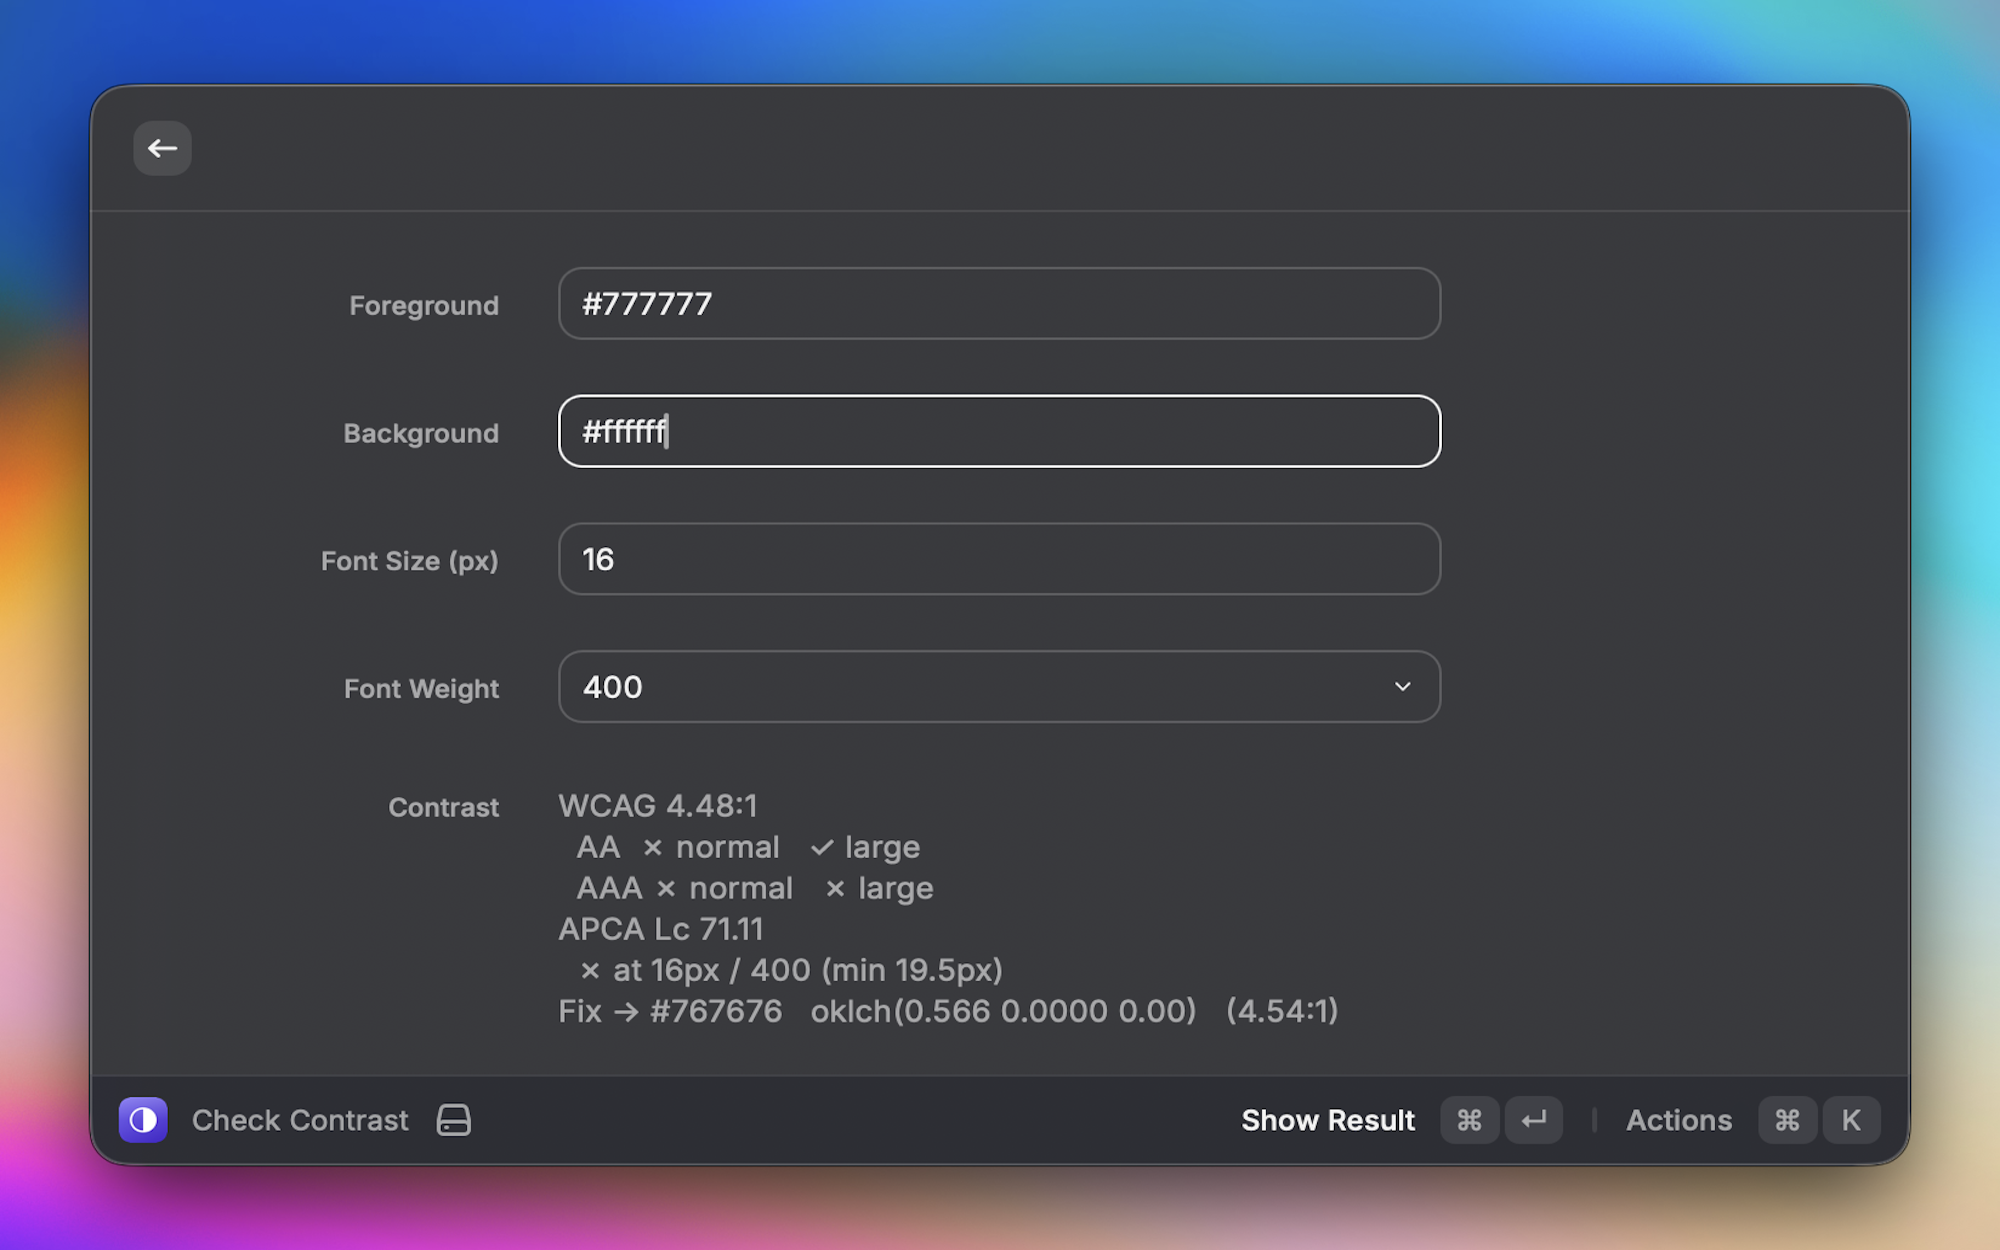
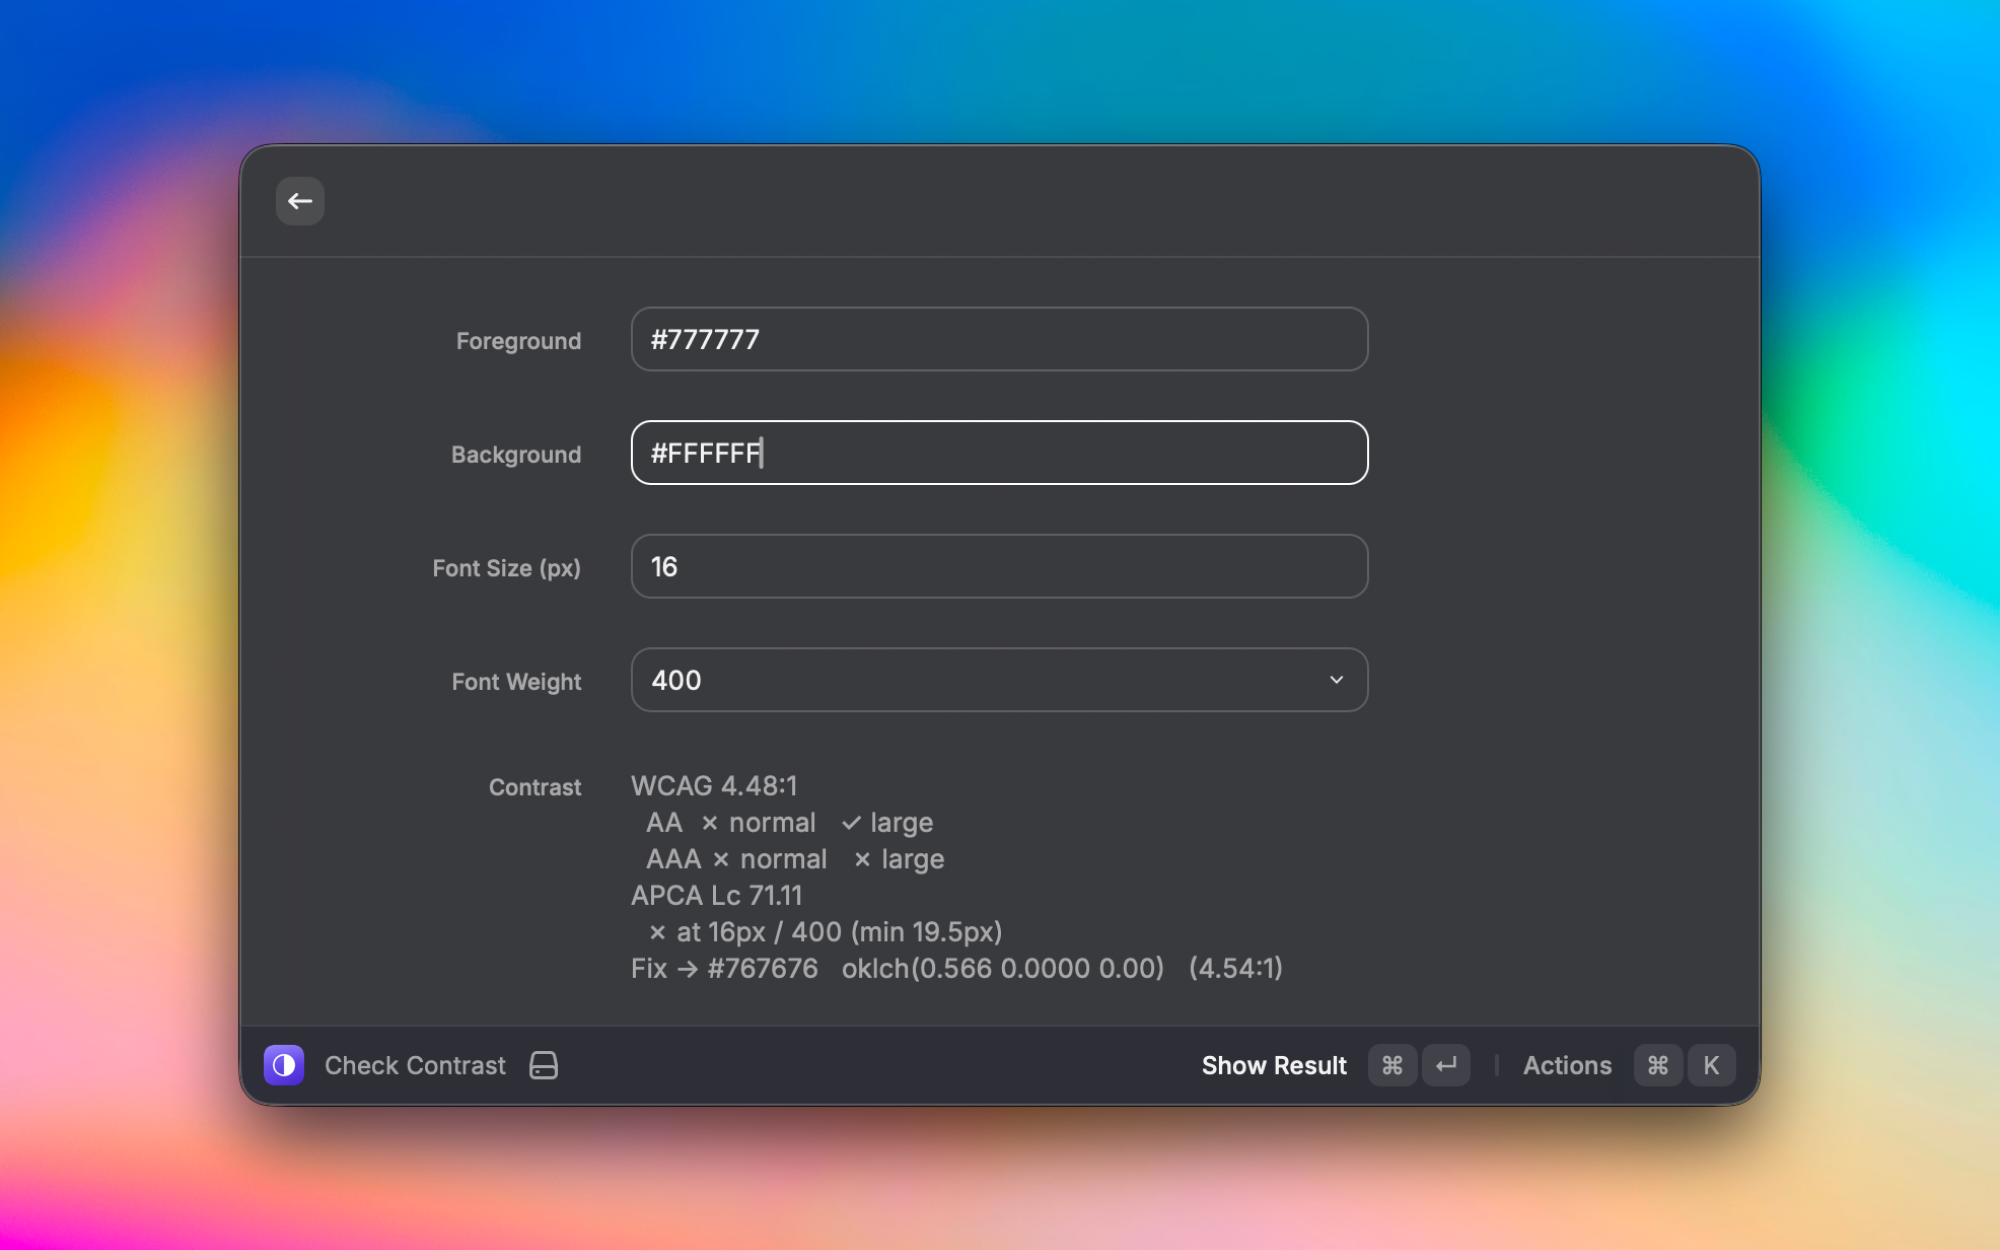
Address review feedback and refine screenshots

diff --git a/src/lib/contrast.ts b/src/lib/contrast.ts
@@ -3,7 +3,7 @@
 // in one structured object. This module is pure (no Raycast/React imports) so it
 // can be unit-tested with Node's test runner and reused anywhere.
 
-import { isValidColor } from "./color";
+import { isValidColor, compositeOver } from "./color";
 import { evaluateWcag } from "./wcag";
 import { evaluateApca } from "./apca";
 import { nearestPassing } from "./fix";
@@ -43,6 +43,7 @@ export interface ContrastResult {
   valid: boolean; // false if either color failed to parse
   error?: string;
   input: Required<ContrastInput>;
+  resolved: { foreground: string; background: string }; // opaque hex actually scored (alpha composited)
   wcag: WcagResult;
   apca: ApcaResult;
   fixForWcagAA: FixResult; // nearest passing foreground for WCAG AA normal (target 4.5)
@@ -59,6 +60,7 @@ function zeroedResult(input: Required<ContrastInput>, error: string): ContrastRe
     valid: false,
     error,
     input,
+    resolved: { foreground: "", background: "" },
     wcag: { ratio: 0, aaNormal: false, aaLarge: false, aaaNormal: false, aaaLarge: false },
     apca: { lc: 0, absLc: 0, minFontPx: null, passesAtSize: false },
     fixForWcagAA: { hex: "", oklch: "", ratio: 0, alreadyPasses: false },
@@ -67,10 +69,13 @@ function zeroedResult(input: Required<ContrastInput>, error: string): ContrastRe
 
 /** Validate the input colors, then compute WCAG, APCA, and the nearest passing fix. */
 export function analyze(input: ContrastInput): ContrastResult {
+  const fs = input.fontSizePx;
   const resolved: Required<ContrastInput> = {
     foreground: input.foreground,
     background: input.background,
-    fontSizePx: input.fontSizePx ?? DEFAULT_FONT_SIZE_PX,
+    // Accept a font size only if it is a finite number > 0; otherwise use the default.
+    // (Number() / the form can yield 0, -5, or Infinity, which are not valid sizes.)
+    fontSizePx: typeof fs === "number" && Number.isFinite(fs) && fs > 0 ? fs : DEFAULT_FONT_SIZE_PX,
     fontWeight: input.fontWeight ?? DEFAULT_FONT_WEIGHT,
   };
 
@@ -81,11 +86,17 @@ export function analyze(input: ContrastInput): ContrastResult {
     return zeroedResult(resolved, `Could not parse the ${which} color. Use hex (3/4/6/8), rgb(), hsl(), or oklch().`);
   }
 
+  // Flatten any alpha before scoring: bg over white, then fg over the resolved bg.
+  // WCAG/APCA assume opaque colors, so translucent inputs must be composited first.
+  const opaqueBg = compositeOver(resolved.background, "#ffffff");
+  const opaqueFg = compositeOver(resolved.foreground, opaqueBg);
+
   return {
     valid: true,
     input: resolved,
-    wcag: evaluateWcag(resolved.foreground, resolved.background),
-    apca: evaluateApca(resolved.foreground, resolved.background, resolved.fontSizePx, resolved.fontWeight),
-    fixForWcagAA: nearestPassing(resolved.foreground, resolved.background, WCAG_AA_TARGET),
+    resolved: { foreground: opaqueFg, background: opaqueBg },
+    wcag: evaluateWcag(opaqueFg, opaqueBg),
+    apca: evaluateApca(opaqueFg, opaqueBg, resolved.fontSizePx, resolved.fontWeight),
+    fixForWcagAA: nearestPassing(opaqueFg, opaqueBg, WCAG_AA_TARGET),
   };
 }

diff --git a/src/check-contrast.tsx b/src/check-contrast.tsx
@@ -7,22 +7,20 @@ import {
   type ApcaWeight,
   type ContrastResult,
 } from "./lib/contrast";
-import { parseColor, toHex } from "./lib/color";
+import { parseColor } from "./lib/color";
 
 const WEIGHTS: ApcaWeight[] = [100, 200, 300, 400, 500, 600, 700, 800, 900];
 
-/** Parse the font-size field; fall back to the default when blank or NaN. */
+/** Parse the font-size field; fall back to the default unless it is finite and > 0. */
 function parseFontSize(raw: string): number {
-  const trimmed = raw.trim();
-  if (trimmed === "") return DEFAULT_FONT_SIZE_PX;
-  const n = Number(trimmed);
-  return Number.isNaN(n) ? DEFAULT_FONT_SIZE_PX : n;
+  const n = Number(raw.trim());
+  return Number.isFinite(n) && n > 0 ? n : DEFAULT_FONT_SIZE_PX;
 }
 
-/** Convert any parseable color string to a hex string for the SVG/icons. */
-function toHexOr(input: string, fallback: string): string {
+/** Whether a color string parses and carries partial transparency (alpha < 1). */
+function hadAlpha(input: string): boolean {
   const parsed = parseColor(input);
-  return parsed ? toHex(parsed) : fallback;
+  return parsed !== undefined && (parsed.alpha ?? 1) < 1;
 }
 
 const mark = (ok: boolean): string => (ok ? "✓" : "✗");
@@ -130,8 +128,10 @@ function ResultView({ result }: { result: ContrastResult }) {
   // exists at the AA target).
   const hasRealFix = !fixForWcagAA.alreadyPasses;
 
-  const fgHex = toHexOr(input.foreground, "#000000");
-  const bgHex = toHexOr(input.background, "#ffffff");
+  // Use the opaque colors actually scored so the swatch matches the numbers (a
+  // translucent input previews as the composited color, not as opaque black).
+  const fgHex = result.resolved.foreground;
+  const bgHex = result.resolved.background;
 
   return (
     <Detail
@@ -209,6 +209,10 @@ function ResultView({ result }: { result: ContrastResult }) {
 function buildMarkdown(result: ContrastResult, fgHex: string, bgHex: string): string {
   const { input, fixForWcagAA } = result;
   const parts: string[] = ["# Contrast Preview"];
+
+  if (hadAlpha(input.foreground) || hadAlpha(input.background)) {
+    parts.push("_Translucent input composited over its background before scoring._");
+  }
 
   parts.push(`**Original** — \`${fgHex}\` on \`${bgHex}\``);
   parts.push(`![original](${swatch(bgHex, fgHex, "Original", input.fontSizePx, input.fontWeight)})`);

diff --git a/src/lib/__tests__/contrast.test.ts b/src/lib/__tests__/contrast.test.ts
@@ -49,6 +49,14 @@ test("WCAG levels: #000 on #fff passes everything; #ffa500 on #fff fails all", (
   );
 });
 
+test("WCAG levels compare the RAW ratio: #6e7978 on #fff rounds to 4.50 but fails AA", () => {
+  // Raw ratio is 4.4976; it rounds to 4.50 for display but must NOT count as AA-passing.
+  const { wcag } = analyze({ foreground: "#6e7978", background: "#ffffff" });
+  assert.equal(wcag.ratio, 4.5); // display value rounds up
+  assert.equal(wcag.aaNormal, false); // raw 4.4976 < 4.5
+  assert.equal(wcag.aaLarge, true); // raw >= 3
+});
+
 // --- APCA Lc (signed) --------------------------------------------------------
 
 const APCA_FIXTURES: Array<[string, string, number]> = [
@@ -157,4 +165,31 @@ test("invalid color: valid=false, helpful error, zeroed sub-results", () => {
   assert.equal(result.wcag.ratio, 0);
   assert.equal(result.apca.lc, 0);
   assert.equal(result.fixForWcagAA.hex, "");
+});
+
+// --- Translucent compositing -------------------------------------------------
+
+test("translucent fg is composited over the bg before scoring: rgba(0,0,0,0.5) on #fff", () => {
+  const result = analyze({ foreground: "rgba(0,0,0,0.5)", background: "#ffffff" });
+  assert.equal(result.valid, true);
+  assert.equal(result.resolved.foreground, "#808080"); // 50% black over white
+  // ~3.98, NOT ~21 (which is what scoring it as opaque black would give).
+  assert.ok(result.wcag.ratio > 3.9 && result.wcag.ratio < 4.05, `expected ~3.98, got ${result.wcag.ratio}`);
+  assert.equal(result.wcag.aaNormal, false);
+  assert.equal(result.wcag.aaLarge, true);
+});
+
+test("translucent hex (#00000080) is composited, not treated as opaque black", () => {
+  const { wcag } = analyze({ foreground: "#00000080", background: "#ffffff" });
+  // 8-digit `80` alpha is 0.502, so it lands one step off #808080; just prove it composited.
+  assert.ok(wcag.ratio < 5, `expected a composited ratio < 5, got ${wcag.ratio}`);
+});
+
+// --- Invalid font sizes ------------------------------------------------------
+
+test("invalid font sizes (<=0, non-finite) fall back to the default 16", () => {
+  for (const bad of [-5, 0, Infinity]) {
+    const { input } = analyze({ foreground: "#000000", background: "#ffffff", fontSizePx: bad });
+    assert.equal(input.fontSizePx, 16, `fontSizePx ${bad} should fall back to 16`);
+  }
 });

diff --git a/src/lib/color.ts b/src/lib/color.ts
@@ -2,7 +2,7 @@
 // parsing, OKLCH conversion, sRGB gamut mapping, hex/oklch formatting, and luminance.
 // Everything here is framework-free and unit-testable.
 
-import { parse, wcagLuminance, converter, formatHex, clampChroma, type CuloriColor } from "culori";
+import { parse, wcagLuminance, converter, formatHex, clampChroma, blend, type CuloriColor } from "culori";
 
 /** An OKLCH color with the channels we rely on guaranteed present after conversion. */
 export interface OklchColor extends CuloriColor {
@@ -50,6 +50,19 @@ export function gamutMapOklch(l: number, c: number, h: number): OklchColor {
 /** Format a color as a `#rrggbb` hex string. Inputs here are always representable. */
 export function toHex(color: CuloriColor): string {
   return formatHex(color) ?? "#000000";
+}
+
+/**
+ * Composite a possibly-translucent color over an opaque backdrop and return an
+ * opaque hex. WCAG/APCA assume opaque colors, so alpha inputs (e.g. `rgba(...)`,
+ * `#rrggbbaa`) must be flattened before scoring or they score like opaque colors.
+ */
+export function compositeOver(color: string, backdropHex: string): string {
+  const parsed = parse(color);
+  if (!parsed) return backdropHex;
+  const alpha = parsed.alpha ?? 1;
+  if (alpha >= 1) return toHex(parsed); // already opaque
+  return formatHex(blend([backdropHex, color], "normal")) ?? backdropHex;
 }
 
 /** Format OKLCH coordinates as a rounded `oklch()` string (L 3dp, C 4dp, H 2dp). */

diff --git a/src/lib/wcag.ts b/src/lib/wcag.ts
@@ -21,14 +21,18 @@ export function contrastRatio(fg: string | CuloriColor, bg: string | CuloriColor
   return round2(rawRatio(fg, bg));
 }
 
-/** Full WCAG evaluation: 2dp ratio plus AA/AAA pass flags (compared against the shown ratio). */
+/**
+ * Full WCAG evaluation. Pass flags compare the RAW (unrounded) ratio against the
+ * thresholds — a raw 4.4976 must fail AA even though it rounds to 4.50 for display.
+ * Only the `ratio` field is rounded (2dp), for display.
+ */
 export function evaluateWcag(fg: string, bg: string): WcagResult {
-  const ratio = contrastRatio(fg, bg);
+  const raw = rawRatio(fg, bg);
   return {
-    ratio,
-    aaNormal: ratio >= WCAG_AA_NORMAL,
-    aaLarge: ratio >= WCAG_AA_LARGE,
-    aaaNormal: ratio >= WCAG_AAA_NORMAL,
-    aaaLarge: ratio >= WCAG_AAA_LARGE,
+    ratio: round2(raw),
+    aaNormal: raw >= WCAG_AA_NORMAL,
+    aaLarge: raw >= WCAG_AA_LARGE,
+    aaaNormal: raw >= WCAG_AAA_NORMAL,
+    aaaLarge: raw >= WCAG_AAA_LARGE,
   };
 }

diff --git a/src/lib/vendor.d.ts b/src/lib/vendor.d.ts
@@ -33,6 +33,9 @@ declare module "culori" {
 
   /** Reduce chroma until the color fits the target gamut, returned in `mode`. */
   export function clampChroma(color: CuloriColor, mode?: string, rgbGamut?: string): CuloriColor;
+
+  /** Alpha-composite a stack of colors (bottom-first) using the given blend mode. */
+  export function blend(colors: Array<string | CuloriColor>, mode?: string): CuloriColor;
 }
 
 declare module "apca-w3" {
